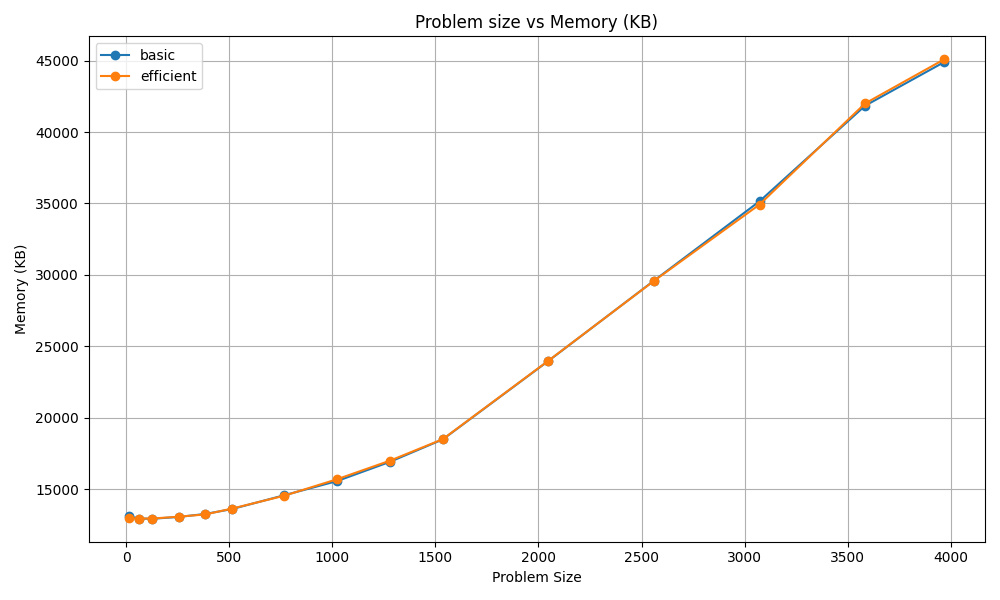
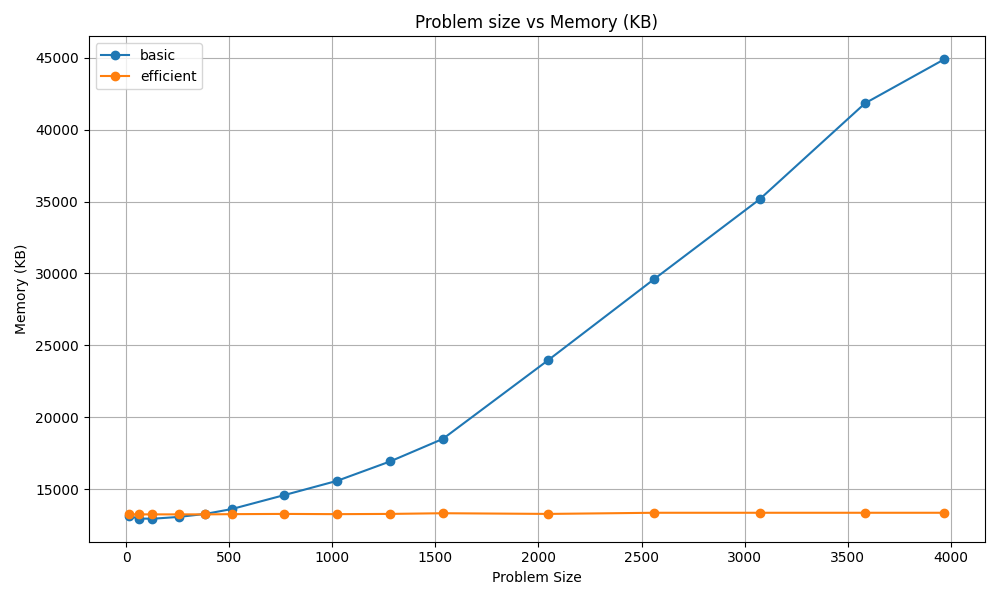
fix: datapoints error

diff --git a/Out/extract_data_from_txt.py b/Out/extract_data_from_txt.py
@@ -34,8 +34,8 @@ def main(folder):
         line4 = lines[3].rstrip("\n")
         line5 = lines[4].rstrip("\n")
 
-        print(f"{line4}")
-        # print(f"{line5}")
+        # print(f"{line4}")
+        print(f"{line5}")
 
 if __name__ == "__main__":
     main('./Out/efficient')

diff --git a/Out/plot.py b/Out/plot.py
@@ -34,7 +34,7 @@ def main(drawMem=False):
     plt.grid(True)
     plt.tight_layout()
     # plt.show()
-    plt.savefig('Out/time.png')
+    plt.savefig('Out/memory.png')
 
 if __name__ == "__main__":
-    main(drawMem=False)
+    main(drawMem=True)
